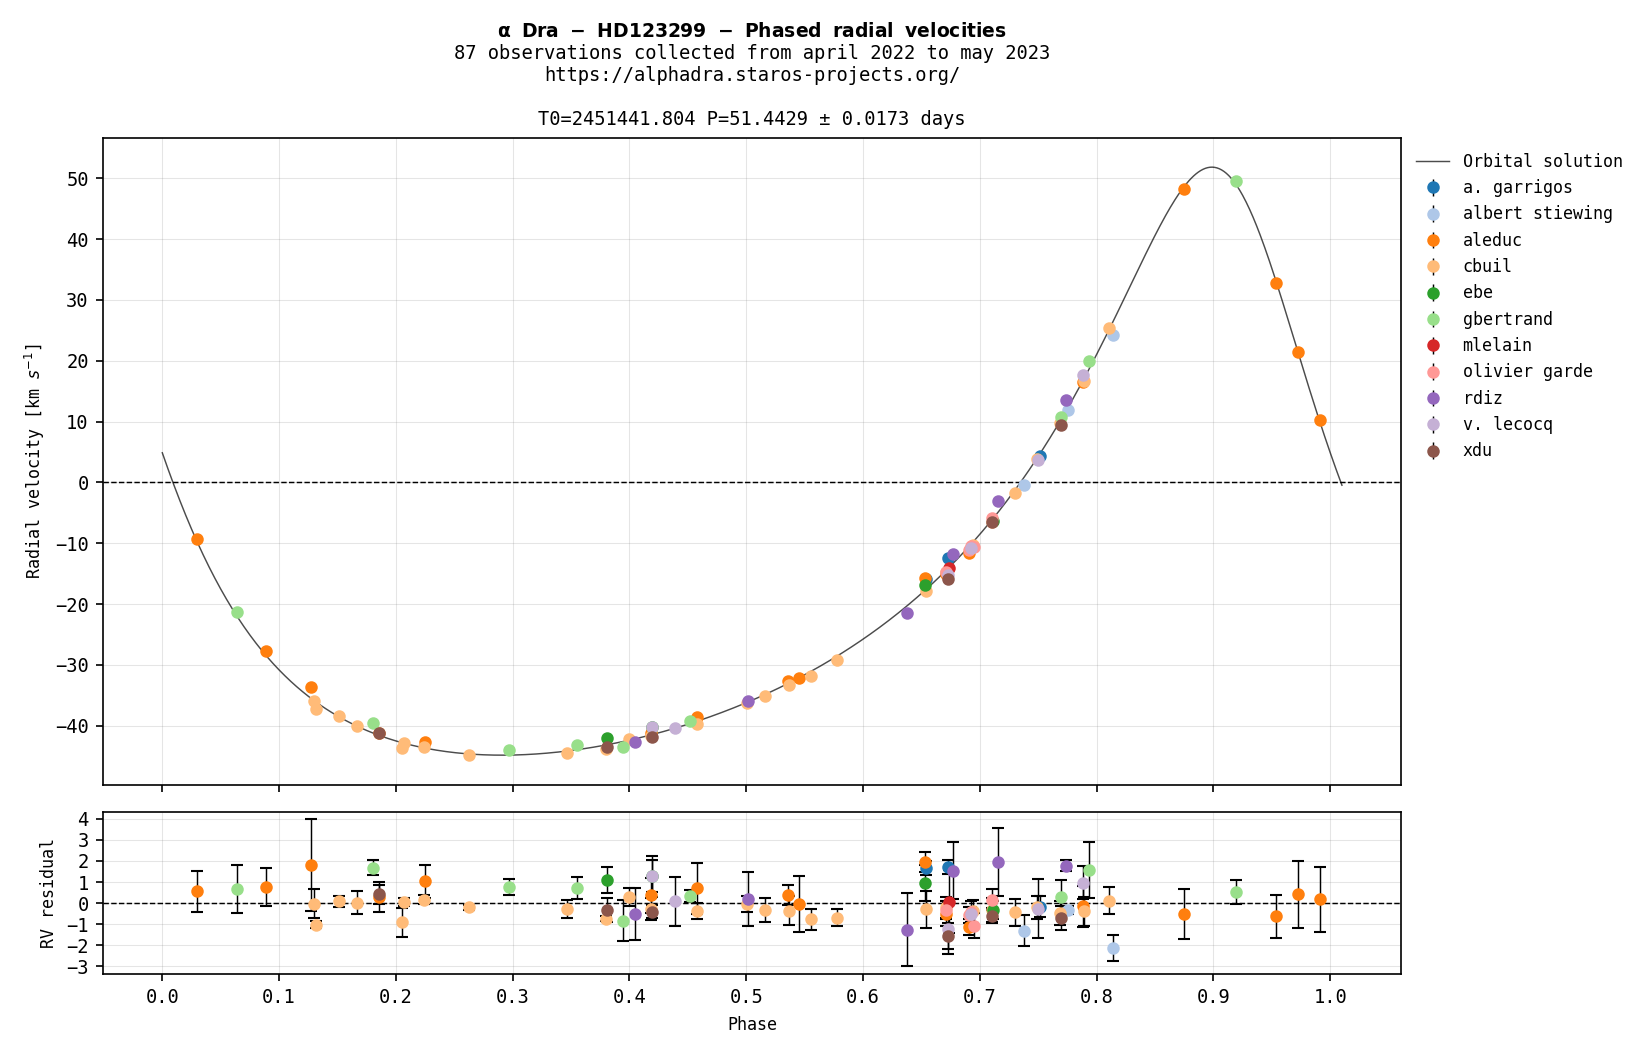
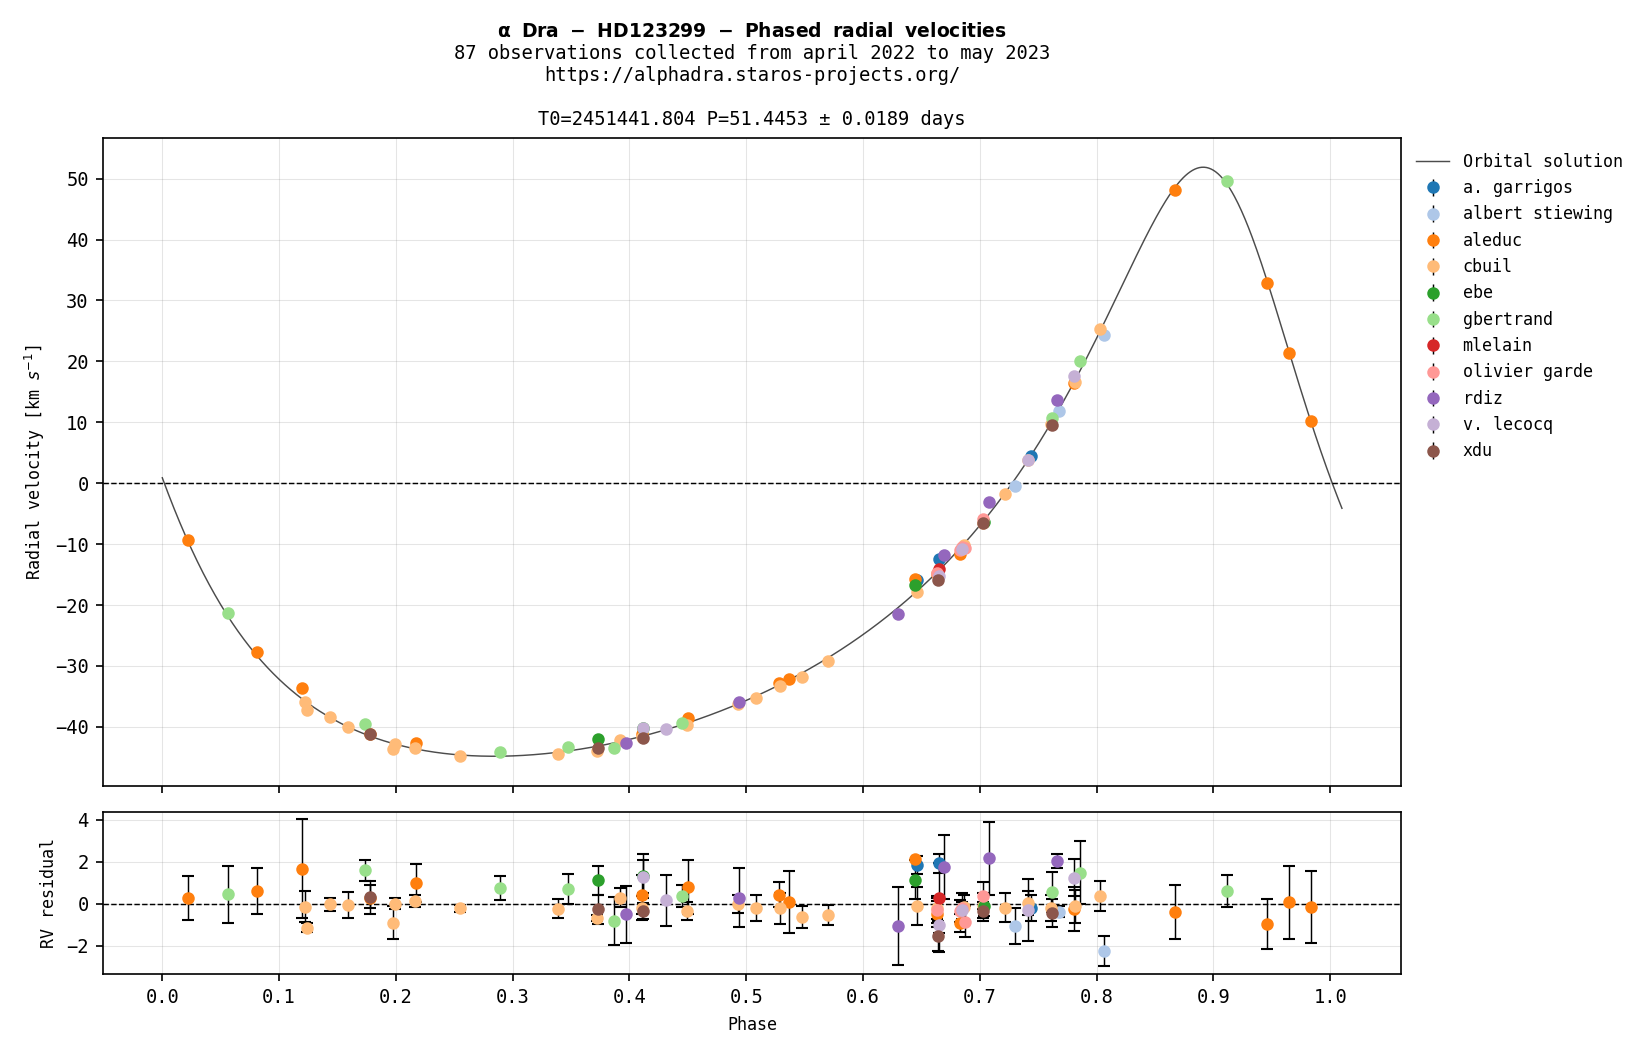
add error estimation

diff --git a/spectroscopicbinarysystem/__init__.py b/spectroscopicbinarysystem/__init__.py
@@ -106,10 +106,22 @@ class SBSpectrum1D(Spectrum1D):
         :return: radial velocity
         :rtype: float
         """
-        error = float(self._header['CRDER1']
-                      ) if 'CRDER1' in self._header else 0
         c = const.c.to('km/s')
-        return abs(c * (error / self._conf["LAMBDA_REF"])).value
+        calibration_error = float(
+            self._header['CRDER1']) if 'CRDER1' in self._header else 0
+        calibration_error = abs(
+            c * (calibration_error / self._conf["LAMBDA_REF"]))
+
+        center_error = 0
+        if 'LINE_FWHM' in self._conf:
+            fwhm = self._conf['LINE_FWHM']
+            cdelt1 = self._header['CDELT1']
+            fwhm_rv = c * fwhm / self._center_of_line
+            center_error = .55 * \
+                (fwhm_rv/(.68 * self._snr *
+                 np.sqrt(fwhm/cdelt1)))
+
+        return calibration_error.value + center_error.value
 
     def getSNR(self):
         return self._snr
@@ -176,7 +188,7 @@ class SBSpectrum1D(Spectrum1D):
         """
         c = const.c.to('km/s')
         self._rv = (c * ((self._center_of_line -
-                    self._conf["LAMBDA_REF"]) / self._conf["LAMBDA_REF"])) + self._rv_corr
+                          self._conf["LAMBDA_REF"]) / self._conf["LAMBDA_REF"])) + self._rv_corr
 
     def getCenterOfLine(self):
         """
@@ -188,7 +200,7 @@ class SBSpectrum1D(Spectrum1D):
     def getDebugLineFitting(self):
         return self._debug_line_fitting
 
-    def findSNR(self, lamb1=6610, lamb2=6625):
+    def findSNR(self, lamb1=6600, lamb2=6610):
         # nombre de points dans le spectre d'entrée
         nbx = self._header['NAXIS1']
 
@@ -377,8 +389,10 @@ class SpectroscopicBinarySystem:
                     ax.set_title(
                         f'{s.getBaseName()}\n{s.getObserver()} JD={s.getJD()}', fontsize="6")
                     ax.grid(True)
-                    ax.tick_params(axis='both', which='major', labelsize=6)
-                    ax.tick_params(axis='both', which='minor', labelsize=6)
+                    ax.tick_params(
+                        axis='both', which='major', labelsize=6)
+                    ax.tick_params(
+                        axis='both', which='minor', labelsize=6)
                     ax.plot(extracted_profil.spectral_axis.to(
                         u.AA), extracted_profil.flux, color="k")
                     ax.plot(gauss_smooth.spectral_axis.to(
@@ -577,7 +591,7 @@ class SpectroscopicBinarySystem:
         plt.rcParams['font.size'] = font_size
         plt.rcParams['font.family'] = font_family
         fig, axs = plt.subplots(2, 1, figsize=(11, 7), gridspec_kw={
-                                'height_ratios': [4, 1]}, sharex=True)
+            'height_ratios': [4, 1]}, sharex=True)
         axs[1].set_xlabel('Phase', fontdict=None,
                           labelpad=None, fontname='monospace', size=8)
         axs[0].set_ylabel(

diff --git a/test.py b/test.py
@@ -11,6 +11,7 @@ sbs = SpectroscopicBinarySystem(
         "LINE_FIT_WINDOW_WIDTH": 10,
         "LINE_FIT_CONT_NORM_EXCLUDE_WIDTH": 1,
         "RV_CORR_TYPE": "barycentric",
+        "LINE_FWHM": 5.8,
         "SB_TYPE": 1
     },
     debug=False)
